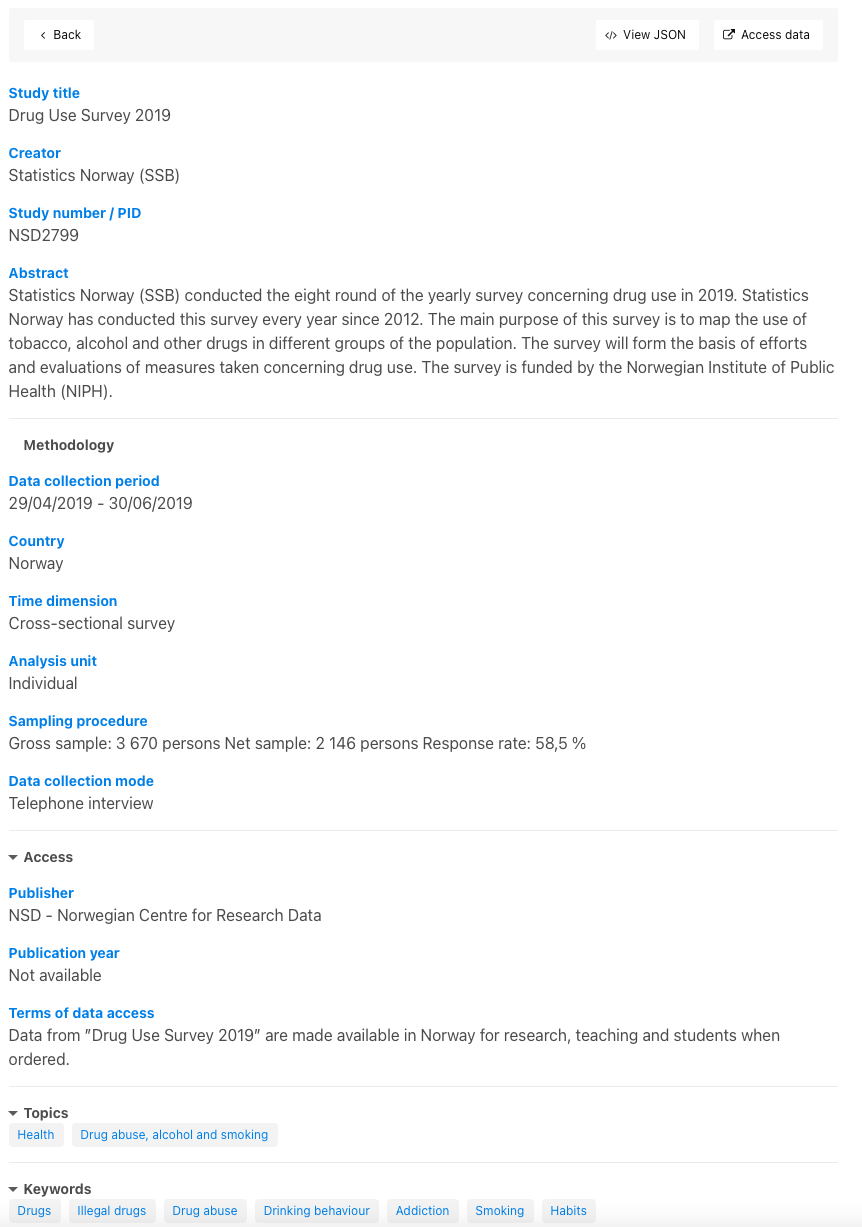
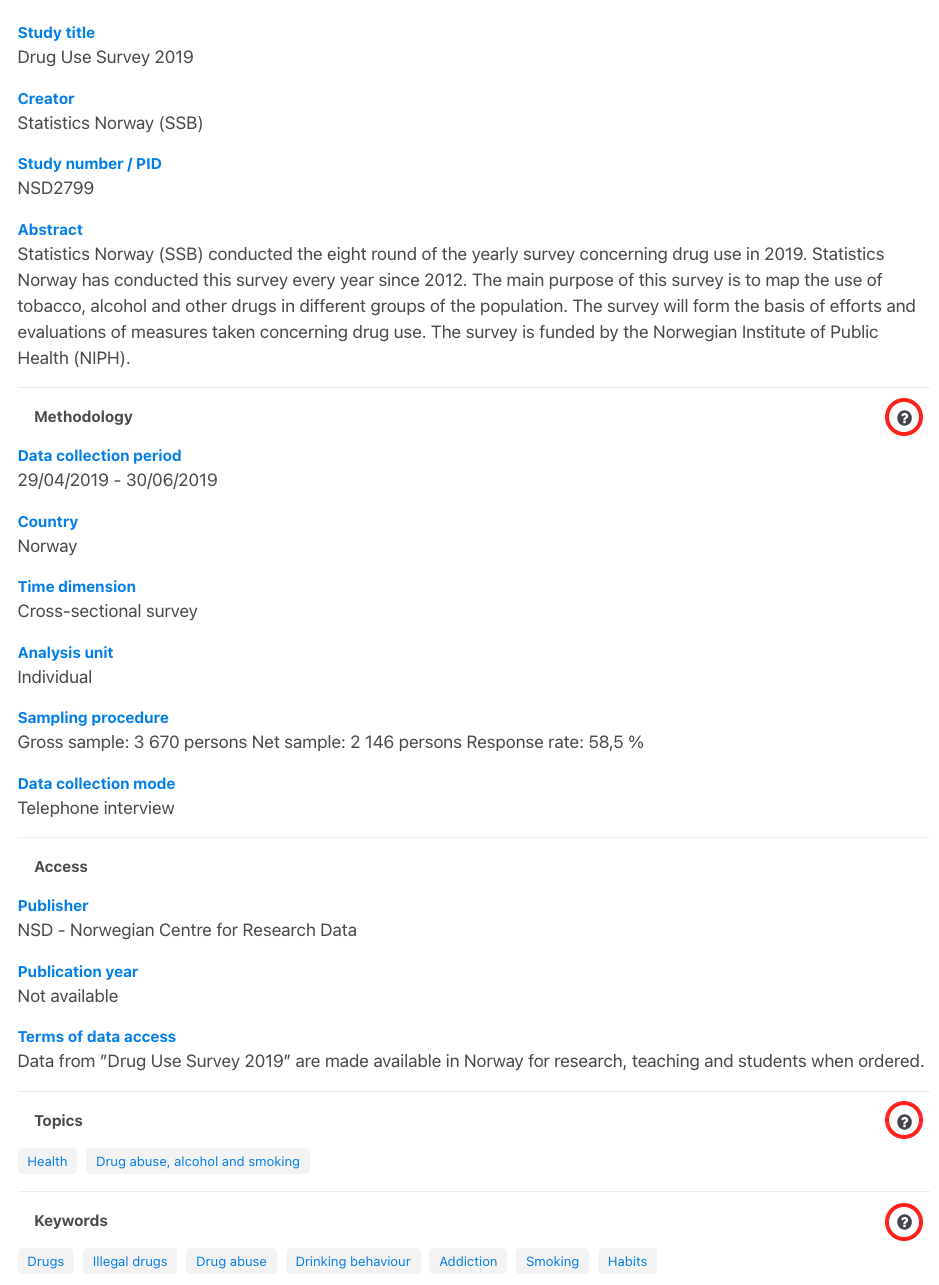
Update detailed study view to show infotips. #212

diff --git a/detailed-study-view.md b/detailed-study-view.md
@@ -15,7 +15,7 @@ and a link to the study on the Publisher website for information on data access.
 
 Many organisations providing metadata for the catalogue use the
 same controlled vocabularies to describe the methodology used for the studies.
-The infotips  contain the names and links to these vocabularies.
+The infotips (highlighted here with a red circle) contain the names and links to these vocabularies.
 
 You can see topics and keywords by clicking these sections open.
 If you see a topic or keyword relevant to you (e.g. “Drinking behaviour”), click on it.
